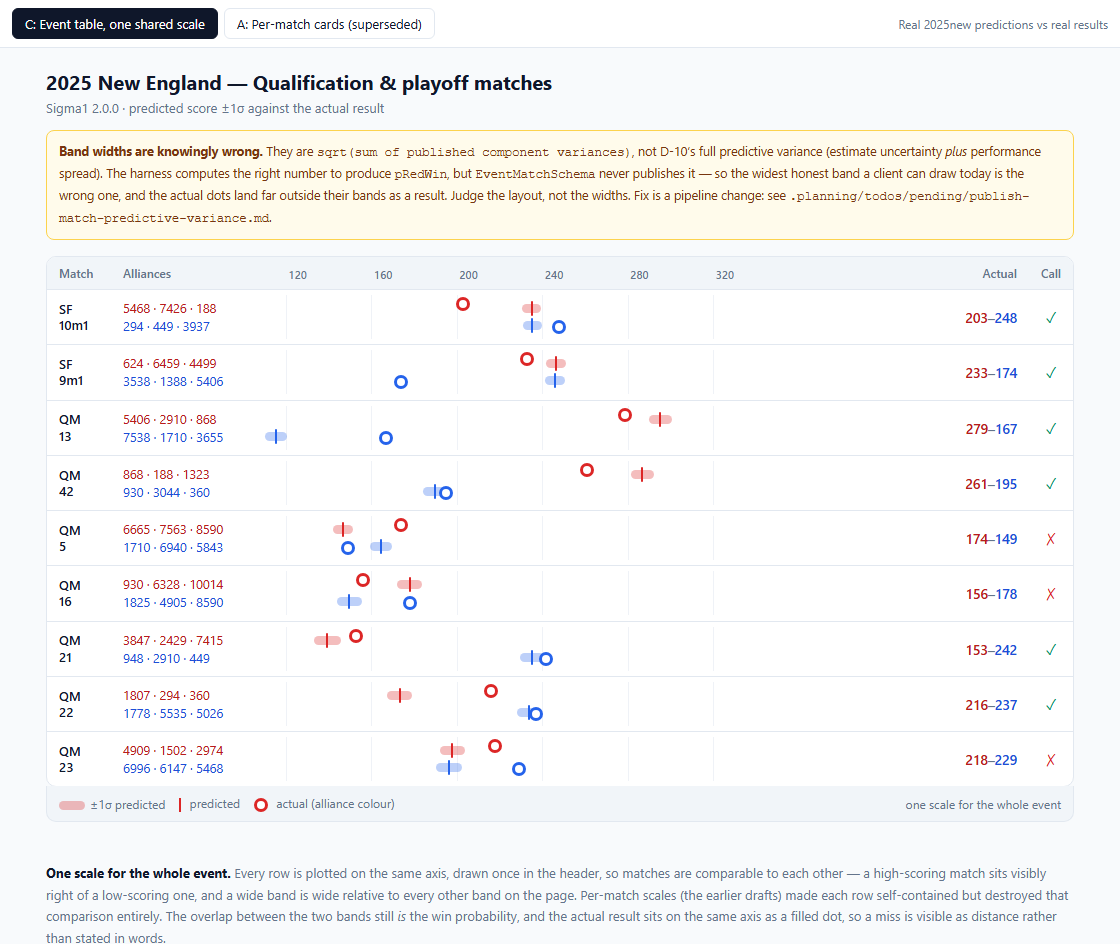
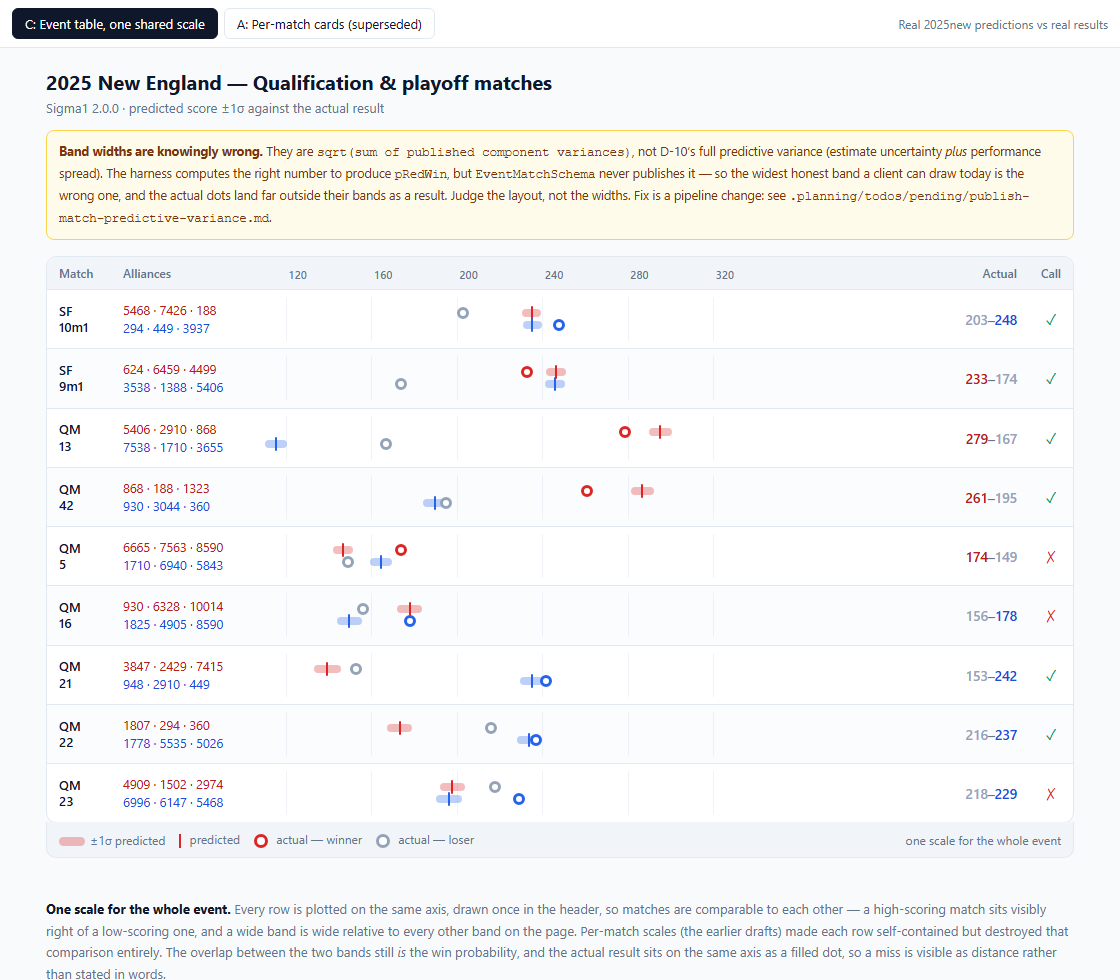
fix(sketch-003): align actual dots to bands, grey the loser, group matches by proximity

diff --git a/.planning/sketches/003-alliance-axes/index.html b/.planning/sketches/003-alliance-axes/index.html
@@ -26,12 +26,14 @@
   .mt th { font-size:var(--text-label); font-weight:600; color:var(--color-text-muted);
            padding:8px 12px; background:var(--color-chrome); text-align:left; white-space:nowrap;
            border-bottom:1px solid var(--color-border); vertical-align:bottom; }
-  .mt td { padding:9px 12px; border-bottom:1px solid var(--color-border); vertical-align:middle; }
+  .mt td { padding:11px 12px; border-bottom:1px solid var(--color-border); vertical-align:middle; }
+  .mt tbody tr:nth-child(even) td { background:#FBFCFE; }
   .mt tr:last-child td { border-bottom:0; }
-  .mt tr:hover td { background:#FAFCFE; }
+  .mt tbody tr:hover td { background:#F1F5F9; }
   .m-key { font-weight:600; font-size:13px; line-height:1.25; white-space:nowrap; }
   .m-teams { font-variant-numeric:tabular-nums; font-size:12.5px; line-height:1.45; white-space:nowrap; }
   .red-ink { color:#B91C1C; } .blue-ink { color:#1D4ED8; }
+  .loser-ink { color:#94A3B8; font-weight:600; }
   .plot { position:relative; padding:0 !important; }
   .actualcol { font-variant-numeric:tabular-nums; font-weight:600; text-align:right; white-space:nowrap; font-size:13.5px; }
   .callcol { text-align:center; font-size:15px; width:44px; }
@@ -113,15 +115,47 @@ function gridlines() {
 
 /* One alliance: soft +/-1sigma band, a solid predicted tick, and the actual as a
    ringed dot. The dot is a donut rather than a plain disc so it stays visible when
-   it lands on top of the band it belongs to. */
-function alliance(mean, sd, actual, color, soft, yBand, yDot) {
+   it lands on top of the band it belongs to.
+ *
+ * Every y is DERIVED from yBand and the shared geometry constants below — the dot's
+ * top used to be passed in as its own hand-tuned number, which drifted out of
+ * alignment with the band (red sat 4.5px high, blue 1.5px low). Deriving it means the
+ * two cannot disagree again.
+ *
+ * The losing alliance's dot goes grey: on a page whose whole job is "was the call
+ * right", the winner is the fact worth seeing, and two equally saturated dots make
+ * the reader work out the answer that the Call column already knows.
+ */
+/* Within-match geometry. The two alliances of ONE match must read as a pair before
+ * anything else, so their vertical separation is deliberately much smaller than the
+ * separation between matches:
+ *
+ *   within a match   band centres 12px apart   (dots just touch, never overlap)
+ *   between matches  ~39px of clear space      (plot padding + cell padding + border)
+ *
+ * The first draft had 17px within against a 44px row, which is close enough to the
+ * between-match gap that a dot landing far from its partner horizontally read as
+ * belonging to whichever row it was nearest. Proximity has to do the grouping.
+ */
+var BAND_H = 8;
+var DOT_H = 12;   /* 6px box + 3px border each side — 12 apart means edge-to-edge, no overlap */
+var TICK_H = 14;
+var Y_RED = 12, Y_BLUE = 24;
+var PLOT_H = 44;
+var GREY = '#94A3B8';
+
+function alliance(mean, sd, actual, color, soft, yBand, won) {
   var lo = x(mean - sd), hi = x(mean + sd);
+  var centre = yBand + BAND_H / 2;
+  var dotTop = centre - DOT_H / 2;
+  var tickTop = centre - TICK_H / 2;
+  var dotColor = won ? color : GREY;
   return '<div style="position:absolute;left:' + lo.toFixed(1) + 'px;width:' + Math.max(5, hi - lo).toFixed(1) +
-           'px;top:' + yBand + 'px;height:9px;border-radius:5px;background:' + soft + ';"></div>' +
-         '<div style="position:absolute;left:' + (x(mean) - 1).toFixed(1) + 'px;top:' + (yBand - 3) +
-           'px;width:2px;height:15px;background:' + color + ';border-radius:1px;"></div>' +
-         '<div style="position:absolute;left:' + (x(actual) - 7).toFixed(1) + 'px;top:' + yDot +
-           'px;width:14px;height:14px;border-radius:50%;background:#fff;border:3px solid ' + color + ';"></div>';
+           'px;top:' + yBand + 'px;height:' + BAND_H + 'px;border-radius:' + (BAND_H / 2) + 'px;background:' + soft + ';"></div>' +
+         '<div style="position:absolute;left:' + (x(mean) - 1).toFixed(1) + 'px;top:' + tickTop.toFixed(1) +
+           'px;width:2px;height:' + TICK_H + 'px;background:' + color + ';border-radius:1px;"></div>' +
+         '<div style="position:absolute;left:' + (x(actual) - DOT_H / 2).toFixed(1) + 'px;top:' + dotTop.toFixed(1) +
+           'px;width:' + DOT_H + 'px;height:' + DOT_H + 'px;border-radius:50%;background:#fff;border:3px solid ' + dotColor + ';"></div>';
 }
 
 document.getElementById('warn-c').innerHTML =
@@ -149,13 +183,17 @@ document.getElementById('table-c').innerHTML =
         '<td class="m-key">' + m.lvl + '<br>' + m.key + '</td>' +
         '<td class="m-teams"><span class="red-ink">' + m.red.join(' · ') + '</span><br>' +
                             '<span class="blue-ink">' + m.blue.join(' · ') + '</span></td>' +
-        '<td class="plot"><div style="position:relative;height:44px;width:' + PLOT_W + 'px;">' +
+        '<td class="plot"><div style="position:relative;height:' + PLOT_H + 'px;width:' + PLOT_W + 'px;">' +
           gridlines() +
-          alliance(m.pr, m.sr, m.ar, RED, RED_SOFT, 9, 2) +
-          alliance(m.pb, m.sb, m.ab, BLUE, BLUE_SOFT, 26, 25) +
+          alliance(m.pr, m.sr, m.ar, RED, RED_SOFT, Y_RED, m.aw === 'red') +
+          alliance(m.pb, m.sb, m.ab, BLUE, BLUE_SOFT, Y_BLUE, m.aw === 'blue') +
         '</div></td>' +
-        '<td class="actualcol"><span class="red-ink">' + m.ar + '</span>' +
-          '<span class="muted">–</span><span class="blue-ink">' + m.ab + '</span></td>' +
+        /* Winner in alliance colour, loser greyed — same rule as the dots, so the
+           column and the plot tell the same story rather than two. */
+        '<td class="actualcol">' +
+          '<span class="' + (m.aw === 'red' ? 'red-ink' : 'loser-ink') + '">' + m.ar + '</span>' +
+          '<span class="muted">–</span>' +
+          '<span class="' + (m.aw === 'blue' ? 'blue-ink' : 'loser-ink') + '">' + m.ab + '</span></td>' +
         '<td class="callcol ' + (correct ? 'ok' : 'bad') + '" title="' +
           (correct ? 'predicted winner was correct' : 'predicted the other alliance') + '">' +
           (correct ? '✓' : '✗') + '</td>' +
@@ -165,7 +203,8 @@ document.getElementById('table-c').innerHTML =
     '<div class="legend" style="border:1px solid var(--color-border);border-top:0;border-radius:0 0 10px 10px;margin-top:-1px">' +
       '<span><span class="sw" style="width:26px;height:9px;border-radius:5px;background:' + RED_SOFT + '"></span>&plusmn;1&sigma; predicted</span>' +
       '<span><span class="sw" style="width:2px;height:14px;background:' + RED + '"></span> predicted</span>' +
-      '<span><span class="sw" style="width:14px;height:14px;border-radius:50%;background:#fff;border:3px solid ' + RED + '"></span> actual (alliance colour)</span>' +
+      '<span><span class="sw" style="width:14px;height:14px;border-radius:50%;background:#fff;border:3px solid ' + RED + '"></span> actual &mdash; winner</span>' +
+      '<span><span class="sw" style="width:14px;height:14px;border-radius:50%;background:#fff;border:3px solid ' + GREY + '"></span> actual &mdash; loser</span>' +
       '<span style="flex:1"></span><span>one scale for the whole event</span>' +
     '</div>';
 

diff --git a/.planning/sketches/003-alliance-axes/README.md b/.planning/sketches/003-alliance-axes/README.md
@@ -86,6 +86,23 @@ What the layout encodes:
 The overlap between the two bands still *is* the win probability, drawn rather than asserted, and a
 miss reads as **distance** rather than as a word.
 
+### Three corrections from review
+
+1. **The actual dots were at the wrong heights.** Each dot's `top` was a hand-tuned constant passed
+   separately from its band, and the two had drifted — red sat 4.5px high, blue 1.5px low. Fixed by
+   *deriving* every y from the band position and shared geometry constants, so they cannot disagree
+   again. Verified programmatically: 0 misaligned across all rows.
+2. **The losing alliance is now grey** — both the dot and its number in the Actual column, so the plot
+   and the text tell the same story. On a page whose job is "was the call right", the winner is the
+   fact worth seeing; two equally saturated dots made the reader derive an answer the page already
+   knows. Side effect worth having: the Actual column alone now answers "who won" without the Call
+   column.
+3. **The two alliances of one match now group.** They were 12px apart in a 44px row against a similar
+   between-match gap, so a dot landing far from its partner horizontally read as belonging to whichever
+   row it was nearest. Tightened to **12px within a match against 47.3px between** (a 3.94× ratio), dot
+   shrunk to 12px so the pair touch without overlapping, and a zebra tint added to reinforce the block.
+   Proximity now does the grouping, which is the only thing that can.
+
 ## Variants
 
 | | Direction | Status |

diff --git a/.planning/sketches/MANIFEST.md b/.planning/sketches/MANIFEST.md
@@ -61,7 +61,15 @@ put both sides side by side; sketch 002 turns it into a concrete choice.
   A miss then reads as distance on a scale you can trust across rows.
 - **Layout must be rendered and looked at, not reasoned about.** 003's first draft had label collisions in
   all three real matches — they only separate when the alliances differ, which is precisely the case the
-  chart exists to show.
+  chart exists to show. A later draft had every actual dot mis-centred on its band, because the dot's
+  position was a separate hand-tuned constant rather than derived from the band's.
+- **Derive coupled geometry, never hand-tune both ends.** Any two marks that must line up should share
+  one computed source; two independent magic numbers silently drift.
+- **Grouping is proximity, not labelling.** Two marks belonging to the same row must be markedly closer
+  to each other than to the neighbouring row — 003 needed ~4x (12px within vs 47px between) before the
+  pairing read correctly.
+- **Grey the loser.** On any predicted-vs-actual view, colouring only the winner lets the reader answer
+  "who won" from the numbers alone.
 
 **Colour (computed, not eyeballed)**
 
